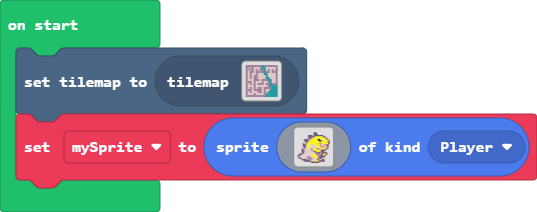
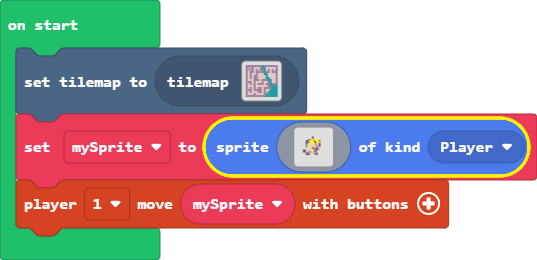
Update main.blocks, main.ts

diff --git a/main.ts b/main.ts
@@ -1,27 +1,28 @@
 tiles.setCurrentTilemap(tilemap`level3`)
 let mySprite = sprites.create(img`
     ........................
-    ............cc..........
-    ............ccc.........
-    ........ccc.ccccccc.....
-    ........ccccc555555cc...
-    ........ccb5555555555c..
-    .....ccc.b55555ff15555c.
-    .....cccb5555555ff55555c
-    ......cb555555555555d55c
-    ....c.b555555555bb55555c
-    ....ccb555ddd5555b13bbc.
-    ....ccd55ddddd555b3335c.
-    .....cdd5ddddddd55b335c.
-    ...c.bddddb555bbbd555c..
-    ...ccdddddbb55555bccc...
-    ...ccdddddddcc555bcc....
-    ...ccddddddddbcccbcccc..
-    .ccbddddddd55dbbbbc55c..
-    ccddddddddd555dbbcc5c...
-    cddddddbbbdd555bbccc....
-    .ccddddbbbbdd55bcc......
-    ...cccbbbbbdddbcddcc....
-    .....cccccdd555dcccc....
-    ..........cccccc........
+    ........................
+    ........................
+    ........................
+    ...........c............
+    ...........c............
+    ........cb555555........
+    ......cc.555f155c.......
+    ......ccb5555f555.......
+    ......cb5dd55b1bc.......
+    ......cd5ddd5b33c.......
+    ......cd5dddd5b3c.......
+    ......dddddc5bc.........
+    ......dddddbcbcc........
+    ....ccdddd5dbbc5........
+    ....ccddbbd5bc..........
+    ......cbbbddcdc.........
+    ......cccdd5dcc.........
+    ........................
+    ........................
+    ........................
+    ........................
+    ........................
+    ........................
     `, SpriteKind.Player)
+controller.player1.moveSprite(mySprite)
